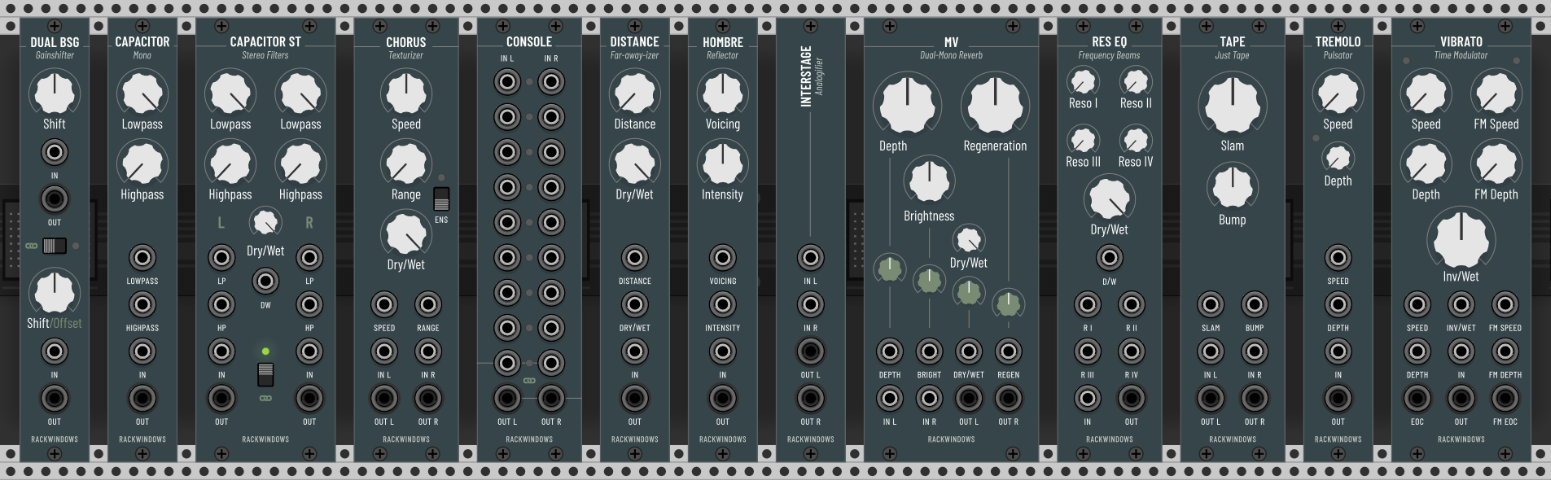
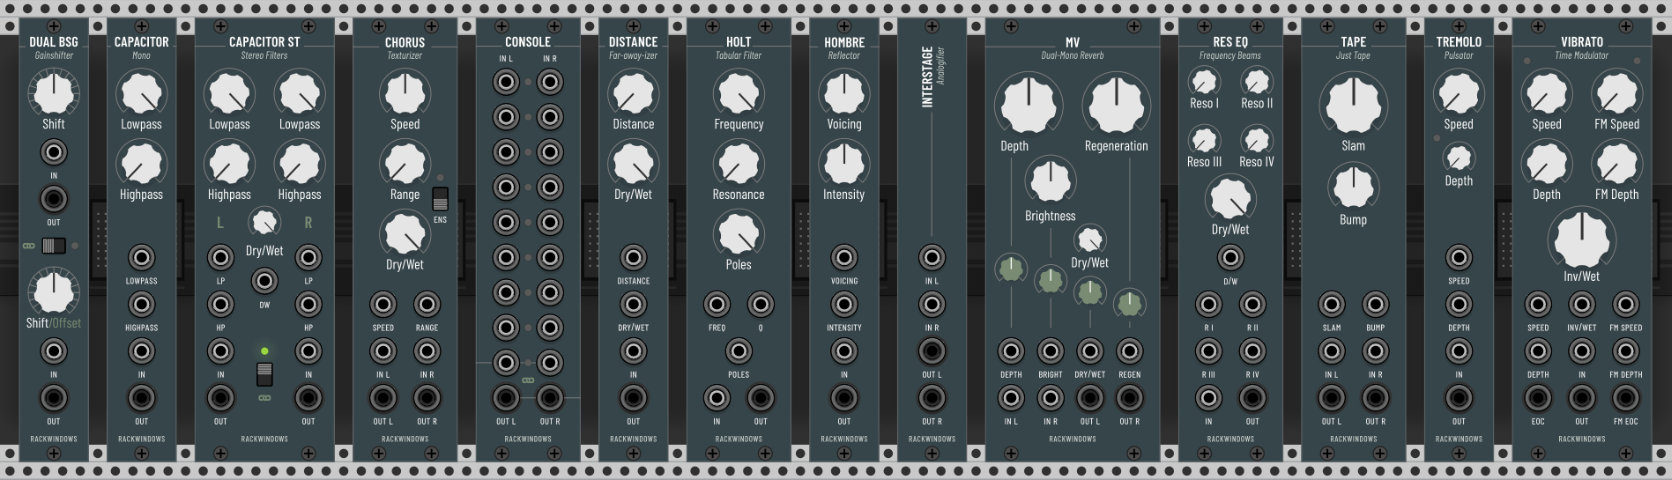
Update readme

diff --git a/readme.md b/readme.md
@@ -2,13 +2,13 @@
 
 ![Rackwindows Modules](res/images/rackwindows_panels.jpg)
 
-**NOTE** As of now some modules don't behave correctly at sample rates other than 44100 Hz. They simply don't scale as they should. Looking for a fix.
-
 Most of these modules are straight-up ports of [Airwindows](http://www.airwindows.com) plugins with the addition of a panel (designed to be potentially buildable in hardware) and the occasional tweak or enhancement to take advantage of the modular environment.
 
 Airwindows plugins are known for exceptional sound quality, innovative approaches and minimalist interfaces. They often focus on and excel at one specific task, which is why I think they are a natural fit for Rack.
 
 For more in-depth information about the inner workings of a particular Airwindows plugin please check Chris' [website](http://www.airwindows.com). There is a video on every plugin along with a description and I encourage everyone to explore his body of work. Chances are you stumble upon other gems here and there. He's got a [Patreon](https://www.patreon.com/airwindows) in case you appreciate and want to support what he does.
+
+**NOTE:** Some modules act a bit differently depending on the selected sample rate and I'm looking for a fix. Keep in mind that some Airwindows plugins are actually sample rate dependent, therefore in some cases it might indeed be a feature, not a bug. There are definitely differences though between the plugin versions and the ported modules with regards to sample rate and I haven't found the explanation yet, let alone a solution. As far as I can tell, all modules behave correctly at 44.1 kHz.
 
 ## Licence
 
@@ -21,6 +21,7 @@ See [LICENSE.md](LICENSE.md) for all licenses
 - [Console](#console): Stereo summing mixer
 - [Distance](#distance): Designed to mimic through-air high frequency attenuation
 - [Dual BSG](#dual-bsg): Dual gain shifter
+- [Holt](#holt): Resonant lowpass filter focussed on low frequencies
 - [Hombre](#hombre): Texas tone and texture
 - [Interstage](#interstage): Subtle analogifier
 - [MV](#mv): Dual-mono reverb
@@ -35,7 +36,7 @@ Filters
 
 ![Rackwindows Capacitor](res/images/capacitor_panels.jpg)
 
-Comes in both mono and stereo, with the stereo version featuring an additional dry/wet control.
+High/Lowpass filters that come in both mono and stereo, with the stereo version featuring an additional dry/wet control.
 
 [More information](http://www.airwindows.com/capacitor)
 
@@ -57,7 +58,7 @@ Airwindows Console systems sum signals in a way where the resulting soundstage a
 
 Please check the link below for further information on how exactly this effect is achieved.
 
-**NOTE**: Due to how the encoding/decoding works, spaciousness and definition will increase with each additional channel. There will be **no** effect on a single channel at all.
+**NOTE**: Due to how the encoding/decoding works, spaciousness and definition will increase with each additional channel. There will be **no effect on a single channel** at all.
 
 [More information](http://www.airwindows.com/console2)
 
@@ -80,6 +81,16 @@ Dual gain shifter
 Scales a signal up or down by increments of exactly 6 dB. If no input is connected, the respective output will provide constant voltage selectable in 1V steps from -8V to +8V. The lower section can be linked to the upper one to automatically compensate for values set by the upper 'Shift' knob. If linked the lower 'Shift' knob can be used to offset the signal in 6db steps (input connected) or 1V steps (input not connected). 
 
 [More information](http://www.airwindows.com/bitshiftgain)
+
+## Holt <a id="holt"></a>
+
+Resonant lowpass filter focussed on low frequencies
+
+![Rackwindows Hombre](res/images/holt_panels.jpg)
+
+Interestingly, Holt's algorithm is based on an Excel method for predicting sales figures based on trends. The result is a lowpass filter that's polite in the highs and increasingly mean towards the low-end. It also allows for seamless morphing between no poles (dry) and 4-poles (24db per octave). An additional output saturation stage helps keeping the possibly massive resonances in check (it can still get nasty though, you have been warned).
+
+[More information](http://www.airwindows.com/holt)
 
 ## Hombre <a id="hombre"></a>
 
@@ -151,7 +162,7 @@ Make sure to also play with the 'Inverse/Wet' knob for chorusing and flange effe
 
 ## A word on processing quality
 
-Some (eventually likely all) modules can be set to a lower quality mode in order to reduce CPU usage on weaker systems via context menu. The actual algorithms remain untouched, but simply run with reduced wordlength (float instead of double and long double). Also any noise shaping/dithering is skipped. This can result in speed improvements of roughly 10% to 50% depending on the module.
+Most modules feature an **Eco** mode in order to reduce CPU usage on weaker systems. The actual algorithms remain untouched, but any noise shaping/dithering is skipped. This can result in speed improvements of roughly 10% to 50% depending on the module.
 
 ## Building from Source
 
@@ -159,4 +170,4 @@ To compile the modules from source, see the official [VCV Rack documentation](ht
 
 ## Colophon
 
-The typeface used is [Barlow](https://github.com/jpt/barlow) by Jeremy Tribby
+The typeface used on the panels is [Barlow](https://github.com/jpt/barlow) by Jeremy Tribby.
